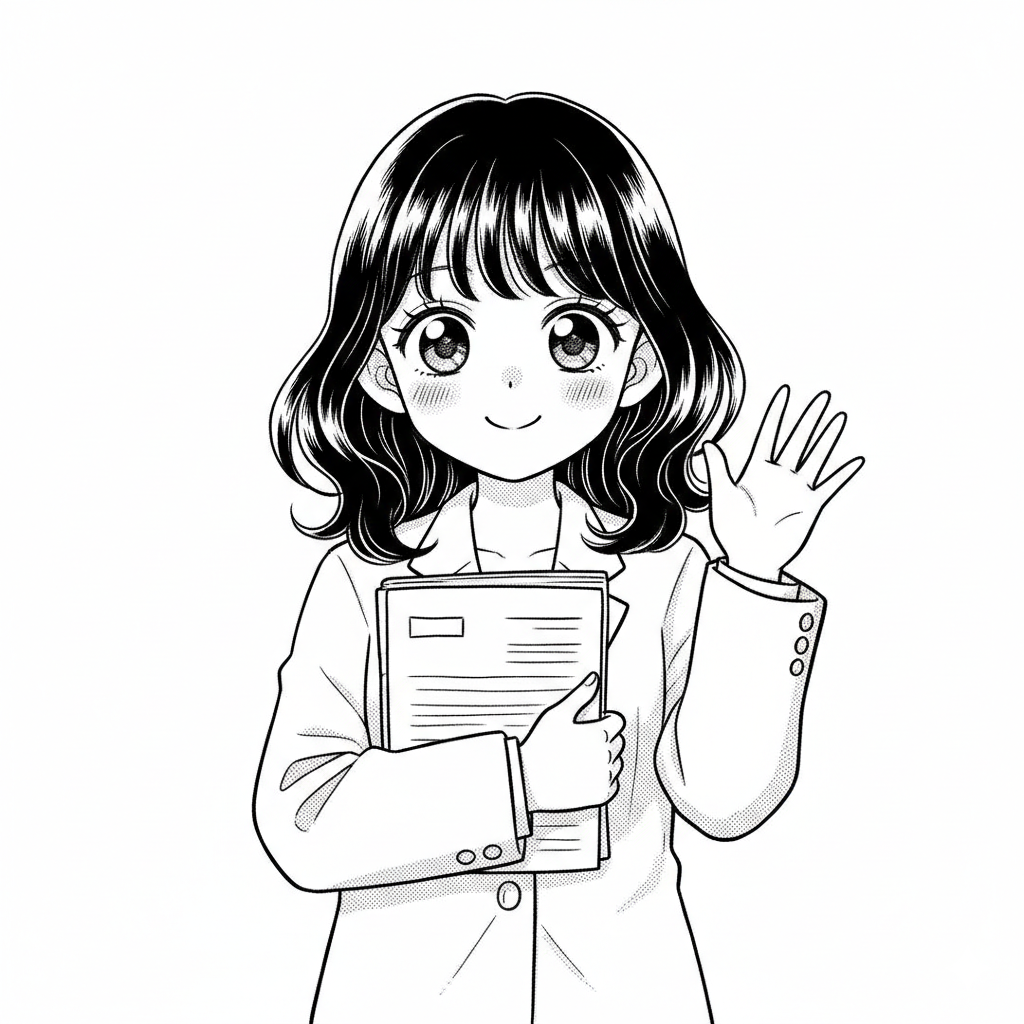
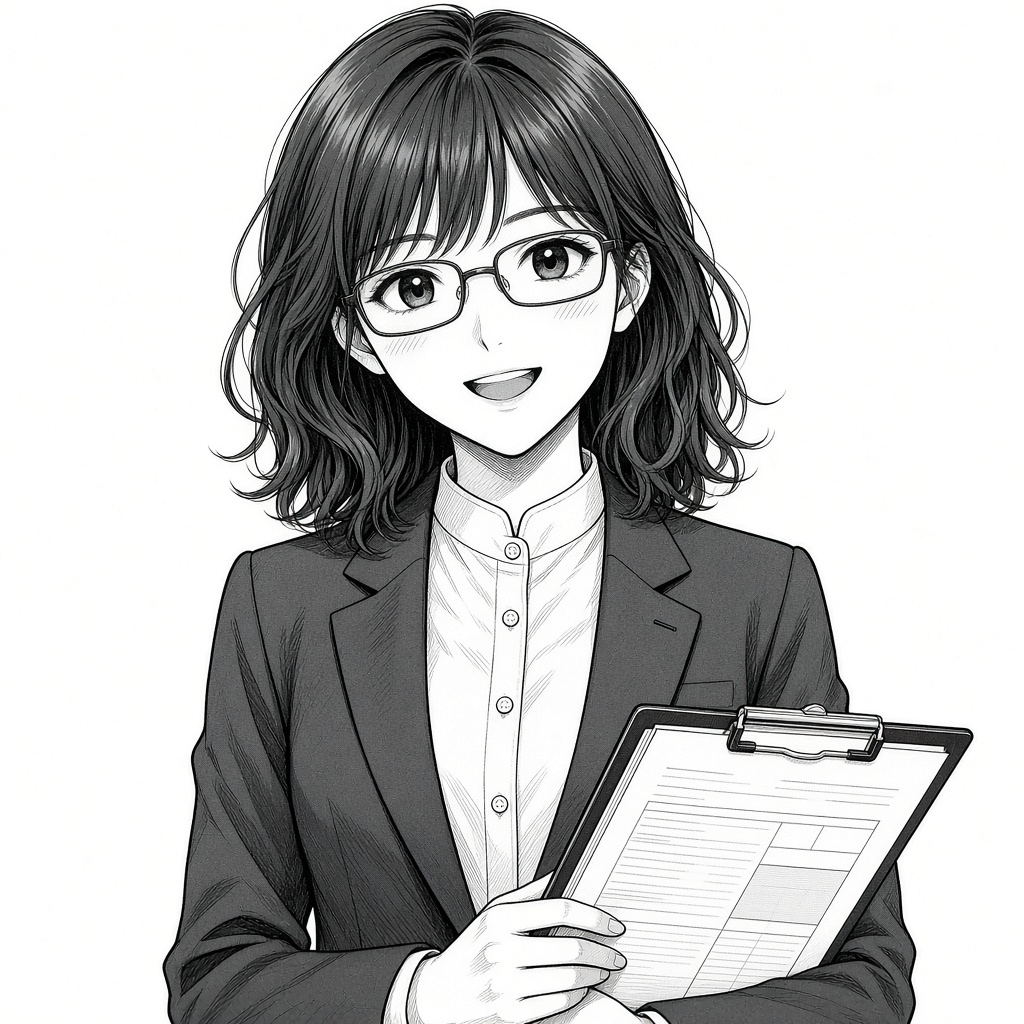
Update OpenIntern character with professional suit and glasses
Per LJ's feedback: add professional appearance for 學霸 vibe
- Character now wears glasses (academic/intelligent style)
- Professional business suit instead of casual outfit
- Conveys 'smart expert managing your positions' brand identity

Changes:
- Generated new professional avatar with glasses + suit
- Updated logo variants (40x40 header, favicons, apple-touch-icon)
- Refreshed all screenshots showing professional appearance
- Adjusted crop parameters for better face/glasses framing

Vibe: 學霸幫你控制倉位 (academic expert helping manage positions)

diff --git a/scripts/create-logo-variants.js b/scripts/create-logo-variants.js
@@ -3,7 +3,7 @@ const fs = require('fs');
 const path = require('path');
 
 async function createLogoVariants() {
-  console.log('Creating SoFinance logo variants from OpenIntern avatar...');
+  console.log('Creating SoFinance logo variants from professional OpenIntern avatar...');
   
   const avatarPath = path.join(__dirname, '../public/avatar-full.png');
   const publicDir = path.join(__dirname, '../public');
@@ -14,10 +14,10 @@ async function createLogoVariants() {
     const metadata = await avatar.metadata();
     console.log(`Original avatar: ${metadata.width}x${metadata.height}`);
     
-    // Create circular cropped version for header (40x40)
-    // Focus on the face/head area (upper portion of the image)
-    const cropSize = 900; // Crop a square from the top-center
-    const cropTop = 0;
+    // Create cropped version for header (40x40)
+    // Focus on the face/head area with glasses (upper portion)
+    const cropSize = 850; // Crop a square from the top-center (includes face + glasses)
+    const cropTop = 50;
     const cropLeft = Math.floor((metadata.width - cropSize) / 2);
     
     await avatar

diff --git a/artifacts/BRAND_MARK_SUMMARY.md b/artifacts/BRAND_MARK_SUMMARY.md
@@ -32,30 +32,32 @@ File: `artifacts/favicon-in-tab.png`
 
 ## 🚀 What's Included
 
-### Assets Created
-- `public/logo.svg` — 40×40 header logo (SVG, scales perfectly)
-- `public/favicon.svg` — 32×32, 16×16 favicon (SVG)
-- `public/apple-touch-icon.png` — Apple device icon
-- `public/favicon.ico` — Legacy browser fallback
+### Assets Source
+- `avatar-full.png` — Original OpenIntern character (1024×1024)
+- `favicon.ico` — OpenIntern's multi-size ICO
+
+### Assets Generated (via sharp)
+- `public/logo.png` — 40×40 cropped header logo (rounded corners)
+- `public/favicon-16.png`, `favicon-32.png` — Favicon sizes
+- `public/apple-touch-icon.png` — 180×180 Apple device icon
 - `public/favicon-preview.html` — Interactive preview page
 
 ### Code Changes
-- ✅ `InkHeader.tsx` — Uses shared `logo.svg` instead of styled text box
-- ✅ `layout.tsx` — Added favicon metadata (SVG, ICO, apple-touch-icon)
-- ✅ Consistent branding across all pages
+- ✅ `InkHeader.tsx` — Uses `logo.png` with `rounded-lg` class
+- ✅ `layout.tsx` — Updated favicon metadata (PNG variants + ICO)
+- ✅ `scripts/create-logo-variants.js` — Image processing with sharp
+- ✅ Consistent OpenIntern branding across all pages
 
 ## 📋 Technical Details
 
-**Format:** SVG (vector, infinitely scalable)  
-**Colors:** 
-- Background: `#050505` (near-black)
-- Face: `#ffffff` (white)
-- Eyes: `#050505` (black)
-- Star badge: `#ff6b35` (orange)
+**Format:** PNG (header/favicons), ICO (legacy fallback)  
+**Colors:** Monochrome B&W (maintains Ink aesthetic)  
+**Source:** OpenIntern project (`truenorth-lj/open-intern`)
 
 **Dimensions:**
-- Header logo: 40×40px
-- Favicon: 32×32px, 16×16px
+- Header logo: 40×40px PNG (rounded-lg)
+- Favicons: 16×16, 32×32 PNG + multi-size ICO
+- Apple touch: 180×180 PNG
 
 ## 🔗 Pull Request
 
@@ -72,4 +74,15 @@ File: `artifacts/favicon-in-tab.png`
 
 ---
 
-**Design Reference:** Based on the Grokbot character style provided by LJ (white circular face, curious eyes, orange badge).
+## 🔄 Change History
+
+**v2 (Current):** OpenIntern character
+- Uses manga-style B&W girl character from LJ's OpenIntern project
+- Monochrome aesthetic, professional appearance
+- Cropped and optimized for header/favicon use
+
+**v1 (Replaced):** Grokbot-style circular face
+- Too similar to Grokbot branding
+- Replaced per LJ's feedback
+
+**Design Source:** OpenIntern project (`truenorth-lj/open-intern`) — creates brand consistency across LJ's portfolio.
